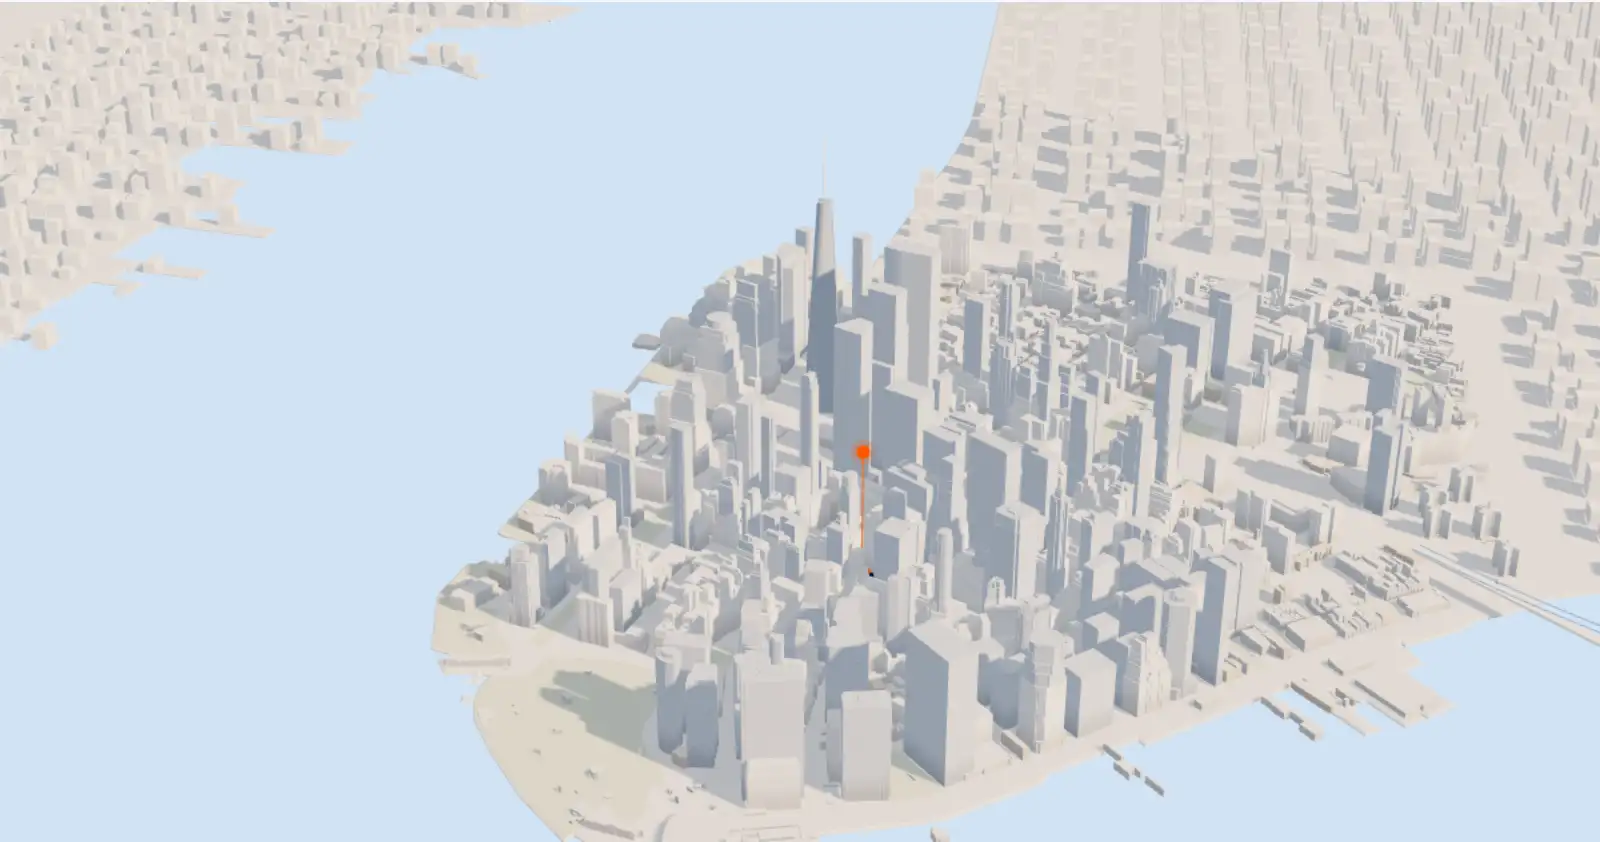
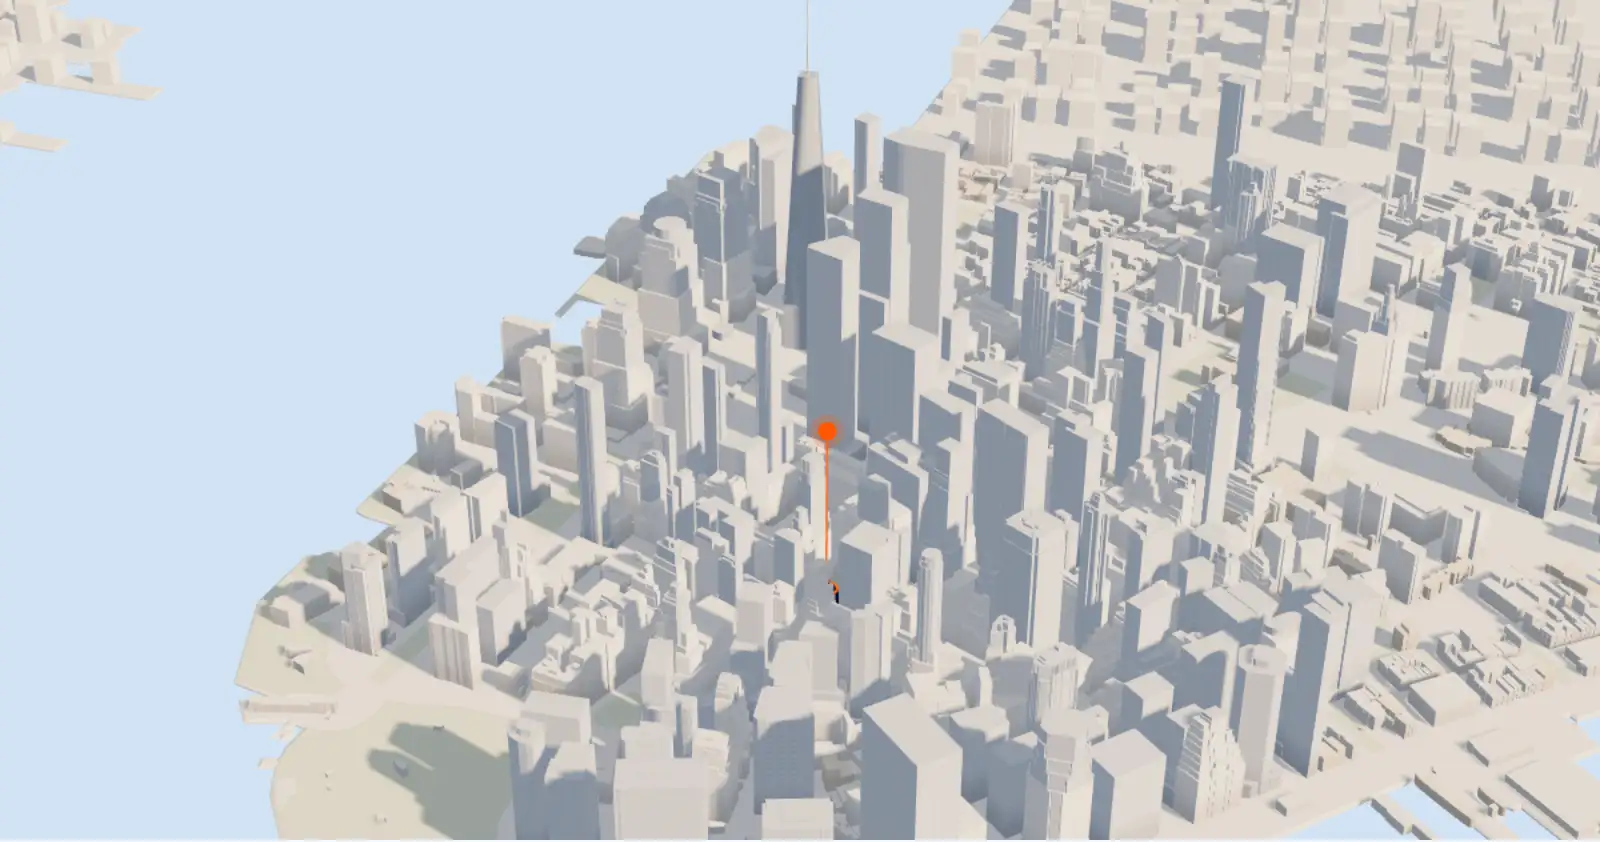
Hero: standard Open Sans, bigger high-contrast city, calmer column

diff --git a/src/style.css b/src/style.css
@@ -47,7 +47,7 @@ p, li, dd { text-wrap: pretty; }
 .wrap { max-width: var(--wrap); margin: 0 auto; padding-left: var(--gutter); padding-right: var(--gutter); }
 .section { padding: 120px 0; }
 .eyebrow { font-size: 12px; font-weight: 700; letter-spacing: 0.16em; text-transform: uppercase; color: var(--slate); }
-.h1 { font-size: clamp(42px, 4.45vw, 64px); line-height: 1.04; font-weight: 800; letter-spacing: -0.035em; color: var(--ink); text-wrap: balance; }
+.h1 { font-size: clamp(40px, 4vw, 58px); line-height: 1.06; font-weight: 800; letter-spacing: -0.03em; color: var(--ink); text-wrap: balance; }
 @media (min-width: 900px) { .h1-soft { white-space: nowrap; } }
 .h1-soft { color: #3a5f93; } /* navy tint, ~6.4:1 on Cloud White: more punch, still clearly the second voice */
 .h2 { font-size: clamp(32px, 3.8vw, 46px); line-height: 1.08; font-weight: 800; letter-spacing: -0.03em; color: var(--ink); }
@@ -55,7 +55,7 @@ p, li, dd { text-wrap: pretty; }
 .fine { margin-top: 28px; font-size: 13px; line-height: 1.6; color: var(--muted); }
 .num, .stat-num, .price-num, .tax-num, .app-big { font-variant-numeric: tabular-nums; }
 /* Display voice inside the brand face: headings and big figures set slightly condensed. */
-.h1, .h2, .stat-num, .price-num, .tax-num { font-stretch: 87.5%; }
+.h1, .h2, .stat-num, .price-num, .tax-num { font-stretch: 100%; } /* standard-width Open Sans everywhere (the condensed cut read as another typeface) */
 
 .btn { display: inline-flex; align-items: center; justify-content: center; gap: 8px; height: 54px; padding: 0 26px; border: 0; border-radius: 10px; font: 700 16px/1 var(--font); text-decoration: none; cursor: pointer; white-space: nowrap; transition: background-color 0.18s var(--ease), transform 0.18s var(--ease); }
 .btn:active { transform: translateY(1px); }
@@ -210,7 +210,7 @@ main > section { scroll-margin-top: 72px; } /* anchor jumps clear the docked hea
 .features svg, .trust-item svg { flex: none; width: 24px; height: 24px; fill: none; stroke: var(--navy); stroke-width: 1.7; stroke-linecap: round; stroke-linejoin: round; margin-top: 1px; }
 .features div { display: flex; flex-direction: column; gap: 3px; }
 /* Display marks from the page's own figure system instead of stock line icons. */
-.features .feature-mark { flex: none; width: 52px; font-size: 22px; line-height: 1.1; font-weight: 800; letter-spacing: -0.03em; font-stretch: 87.5%; color: var(--navy); font-variant-numeric: tabular-nums; }
+.features .feature-mark { flex: none; width: 52px; font-size: 22px; line-height: 1.1; font-weight: 800; letter-spacing: -0.03em; color: var(--navy); font-variant-numeric: tabular-nums; }
 .features strong { font-size: 16px; color: var(--ink); }
 .features span { font-size: 16px; line-height: 1.55; color: var(--slate); max-width: 30em; text-wrap: pretty; } /* one shared measure, so all three bodies wrap alike */
 
@@ -259,7 +259,7 @@ main > section { scroll-margin-top: 72px; } /* anchor jumps clear the docked hea
 /* Ordinals come from a CSS counter: decorative, so not part of the content or contrast checks. */
 .why-list { counter-reset: why; }
 .why-item { counter-increment: why; }
-.why-item::before { content: counter(why, decimal-leading-zero); font-size: 32px; line-height: 1; font-weight: 800; letter-spacing: -0.04em; font-stretch: 87.5%; font-variant-numeric: tabular-nums; color: rgb(7 45 94 / 0.28); } /* a quiet index: present at every width, never louder than the titles */
+.why-item::before { content: counter(why, decimal-leading-zero); font-size: 32px; line-height: 1; font-weight: 800; letter-spacing: -0.04em; font-variant-numeric: tabular-nums; color: rgb(7 45 94 / 0.28); } /* a quiet index: present at every width, never louder than the titles */
 /* Desktop: editorial split. Heading pinned left, numbered ledger rows on the right. */
 @media (min-width: 901px) {
   .why-split { display: grid; grid-template-columns: minmax(0, 5fr) minmax(0, 7fr); gap: 72px; align-items: start; }
@@ -268,7 +268,7 @@ main > section { scroll-margin-top: 72px; } /* anchor jumps clear the docked hea
   .why-list { display: flex; flex-direction: column; }
   .why-list .why-item { display: grid; grid-template-columns: 96px minmax(0, 1fr); grid-template-rows: auto 1fr; column-gap: 24px; row-gap: 8px; padding: 32px 0; border-top: 1px solid var(--line-strong); }
   .why-list .why-item:last-child { border-bottom: 1px solid var(--line-strong); }
-  .why-list .why-item::before { grid-row: span 2; font-size: 48px; line-height: 1; font-weight: 800; letter-spacing: -0.04em; color: rgb(7 45 94 / 0.28); font-stretch: 87.5%; font-variant-numeric: tabular-nums; }
+  .why-list .why-item::before { grid-row: span 2; font-size: 48px; line-height: 1; font-weight: 800; letter-spacing: -0.04em; color: rgb(7 45 94 / 0.28); font-variant-numeric: tabular-nums; }
 }
 @media (max-width: 900px) { .why-list { display: grid; gap: 36px; } }
 .why-item h3, .trust-item h3, .tax-item h3, .steps h3 { font-size: 20px; line-height: 1.3; font-weight: 800; letter-spacing: -0.01em; color: var(--ink); }
@@ -695,7 +695,7 @@ html:not(.js) .tabs { display: none; } /* without JS the tabs can't switch, so s
 .how-dark .steps { gap: 20px; }
 .how-dark .steps::before { display: none; }
 .how-dark .steps li { padding: 26px 24px 28px; border-radius: 20px; background: linear-gradient(180deg, rgba(255, 255, 255, 0.09), rgba(255, 255, 255, 0.03)); box-shadow: inset 0 0 0 1px rgba(255, 255, 255, 0.12); }
-.how-dark .step-n, .how-dark .steps li:first-child .step-n { display: block; width: auto; height: auto; margin: 0 0 4px; background: none; box-shadow: none; border-radius: 0; font-size: 44px; font-weight: 800; line-height: 1; letter-spacing: -0.04em; font-stretch: 87.5%; font-variant-numeric: tabular-nums; color: var(--orange); }
+.how-dark .step-n, .how-dark .steps li:first-child .step-n { display: block; width: auto; height: auto; margin: 0 0 4px; background: none; box-shadow: none; border-radius: 0; font-size: 44px; font-weight: 800; line-height: 1; letter-spacing: -0.04em; font-variant-numeric: tabular-nums; color: var(--orange); }
 @media (min-width: 901px) {
   .how-dark .steps li:not(:last-child)::after { content: ''; position: absolute; right: -15px; top: 44px; width: 9px; height: 9px; border-top: 2px solid var(--orange); border-right: 2px solid var(--orange); transform: rotate(45deg); }
 }
@@ -803,3 +803,10 @@ main > section:not(.hero):not(.how-dark):not(.pricing):not(.cta), body > .footer
 .maps-logo { display: block; height: 42px; width: auto; }
 .footer .maps-logo { height: 46px; }
 @media (max-width: 900px) { .site-header .maps-logo { height: 36px; } }
+
+/* Calmer hero column: one clear stack (label, headline, lead, form), the live line and trust ticks as quiet footnotes. */
+.hero-copy { gap: 20px; }
+.hero-copy .lead { font-size: 19px; max-width: 520px; }
+.hero-copy .capture { margin-top: 8px; }
+.hero-copy .live { font-size: 13px; color: var(--muted); }
+.hero-copy > .proof { margin-top: 18px; padding-top: 0; border-top: 0; gap: 8px 22px; font-size: 13px; font-weight: 600; color: var(--slate); }

diff --git a/src/city.js b/src/city.js
@@ -64,12 +64,12 @@ export function createCity({ canvas, label, reducedMotion = false, withClouds = 
   renderer.toneMappingExposure = 1.04;
 
   const scene = new THREE.Scene();
-  scene.fog = new THREE.Fog(PAGE_BG, 820, 1320); // the Financial District stays crisp; uptown and the far shores dissolve into haze
+  scene.fog = new THREE.Fog(PAGE_BG, 700, 1180); // the Financial District stays crisp; uptown and the far shores dissolve into haze
   const camera = new THREE.PerspectiveCamera(22, 1, 1, 3200);
 
   // Morning light: cool sky fill, warm low sun from the east-south-east (the real morning sun over the East River).
-  scene.add(new THREE.HemisphereLight(0xf8fbff, 0xdde1e8, 1.35)); // soft fill: shaded faces stay readable, sunlit ones pop
-  const sun = new THREE.DirectionalLight(0xffd3a3, 3.6);
+  scene.add(new THREE.HemisphereLight(0xf8fbff, 0xdde1e8, 1.1)); // soft fill: shaded faces stay readable, sunlit ones pop
+  const sun = new THREE.DirectionalLight(0xffd3a3, 4.2); // stronger key vs fill: towers read as volumes
   sun.position.set(200, 150, 60); // a low east-south-east morning sun: long shadows across the grid from this view
   sun.target.position.set(0, 0, -40);
   sun.castShadow = true;
@@ -379,8 +379,8 @@ export function createCity({ canvas, label, reducedMotion = false, withClouds = 
   // Low and wide from the harbour: Lower Manhattan reads as a skyline rising from the water (One World Trade Center
   // the hero, Midtown and the Empire State in the haze), not a map of rooftops. Real towers hide the NYSE from here
   // (ray-marched), so an orange map pin rises above the skyline at its spot.
-  const target = new THREE.Vector3(-20, 26, -50);
-  const rig = { az: 0.15, pol: 1.12, r: 760 };
+  const target = new THREE.Vector3(-10, 26, -30);
+  const rig = { az: 0.2, pol: 1.05, r: 540 }; // close enough that the Financial District fills the right half
   const ptr = { x: 0, y: 0, sx: 0, sy: 0 };
   let scroll = 0, size = { w: 1, h: 1, top: 0 }, zoom = 1;
 

diff --git a/src/main.js b/src/main.js
@@ -13,7 +13,7 @@ const hero = $('.hero');
 const canvas = $('.hero-canvas');
 const label = $('.ws-label');
 const poster = $('.hero-poster');
-const POSTER_LABEL = { x: 0.540, y: 0.514 }; // from render-poster.mjs: fraction of the 1600×840 poster
+const POSTER_LABEL = { x: 0.517, y: 0.484 }; // from render-poster.mjs: fraction of the 1600×840 poster
 function placePosterLabel() {
   // Mirror object-fit: cover on the poster's real box (CSS owns the band's size, zoom and offset).
   const hb = hero.getBoundingClientRect();
